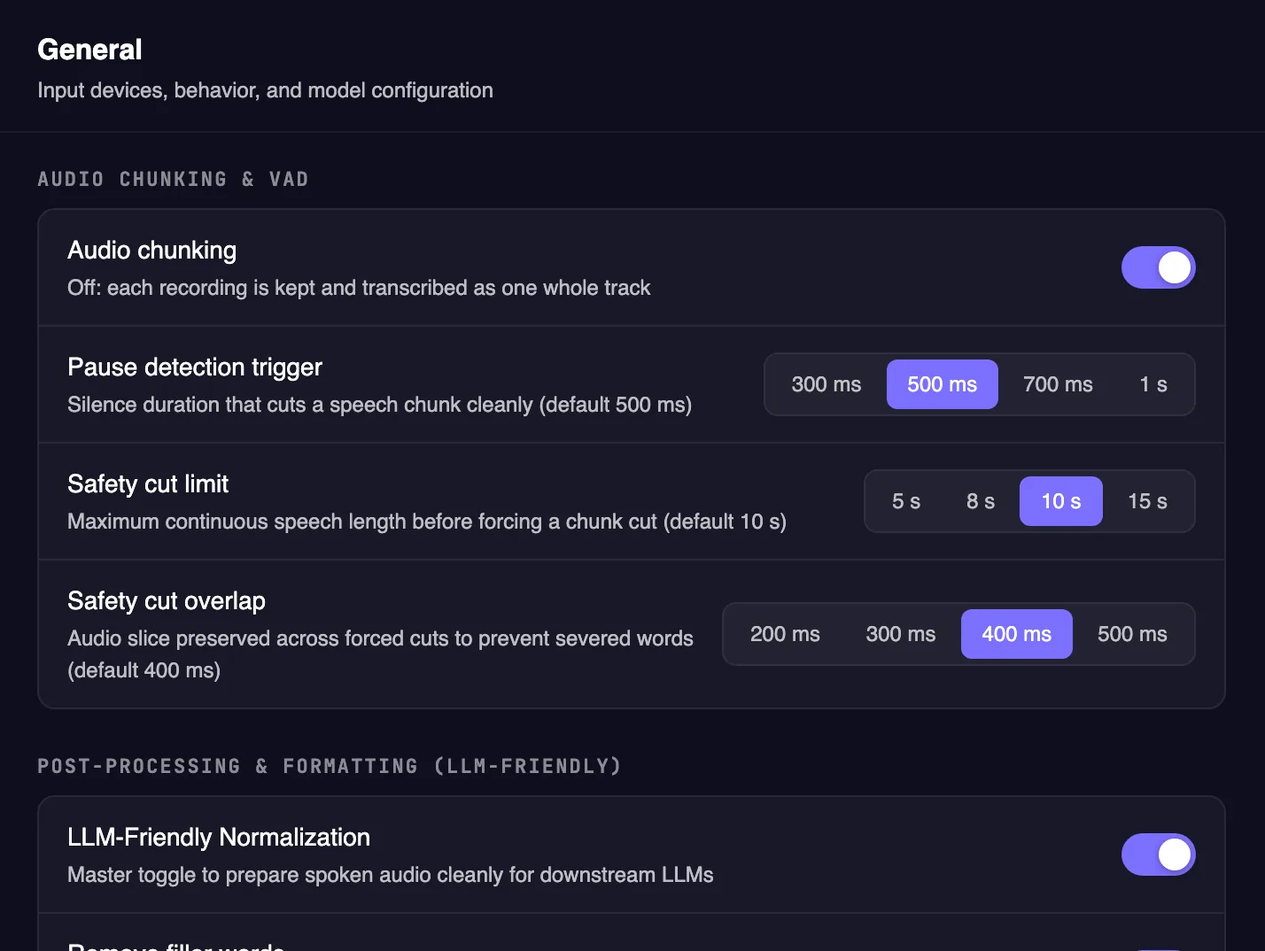
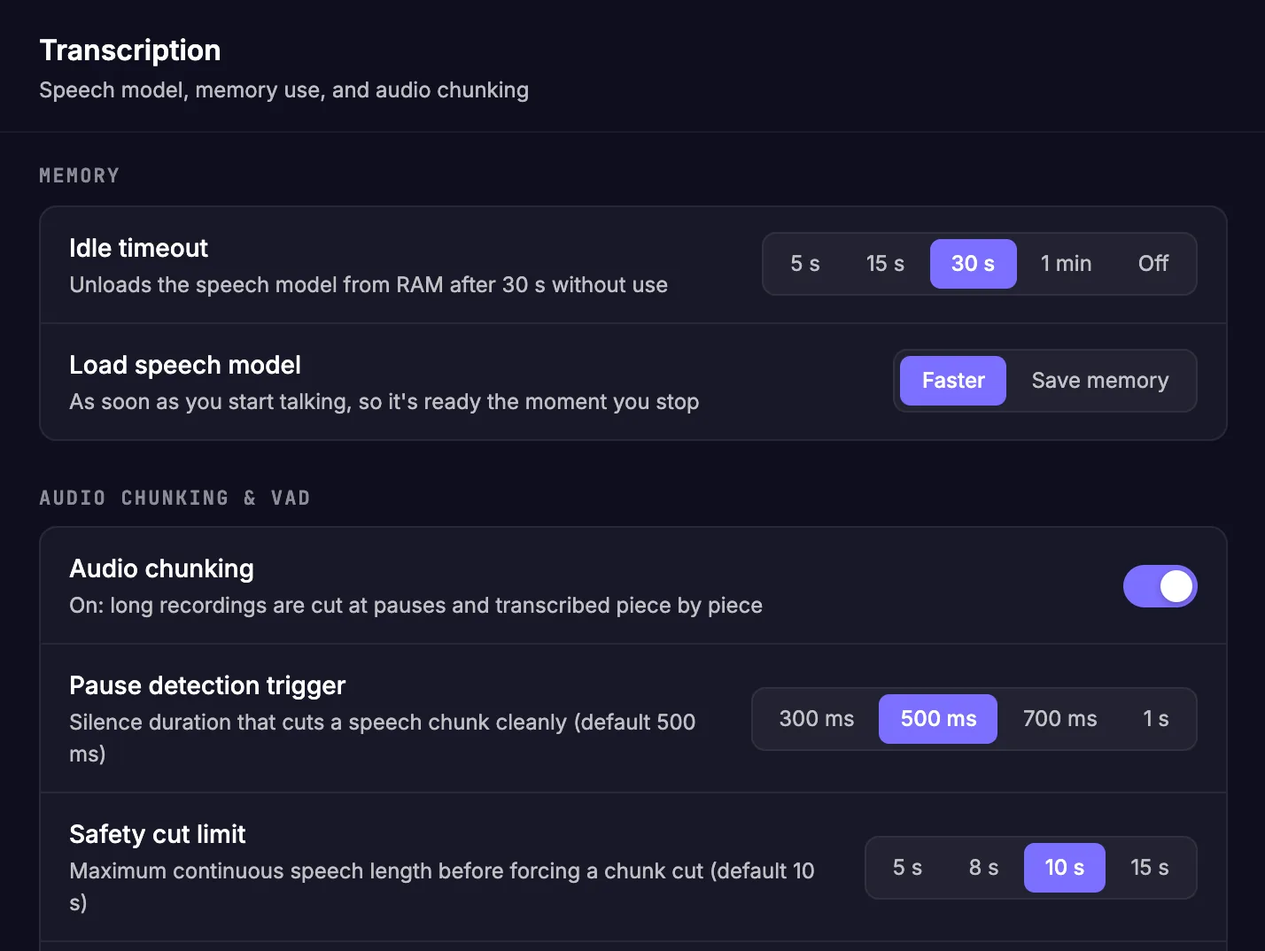
Update the website guide for the new Settings tabs
Re-shoots the General, Transcription, Text and History screenshots, moves
idle timeout to the Transcription step next to model loading, adds Open at
login, and points tab labels and image descriptions at the new tabs.

diff --git a/site/i18n.js b/site/i18n.js
@@ -107,8 +107,9 @@ window.REVFLY_I18N = {
 
     "tab.general": "General",
     "tab.translations": "Translations",
-    "tab.storage": "Storage",
-    "tab.logs": "Logs",
+    "tab.transcription": "Transcription",
+    "tab.text": "Text",
+    "tab.history": "History",
     "tab.labs": "Audio Labs",
 
     "g1.short": "Дозволи",
@@ -125,17 +126,17 @@ window.REVFLY_I18N = {
     "g1.o3t":
       "Показує вашу версію. RevFly сам перевіряє нові випуски й встановлює їх одним натисканням.",
     "g1.alt":
-      "Налаштування RevFly, вкладка General: системні дозволи з наданим Accessibility та оновлення",
+      "Налаштування RevFly, вкладка General: системні дозволи з наданим Accessibility та оновлення з RevFly 1.0.0 Beta",
 
     "g2.short": "Клавіша й мікрофон",
-    "g2.title": "Гаряча клавіша, мікрофон і пам’ять",
+    "g2.title": "Гарячі клавіші й мікрофон",
     "g2.lead": "Розділ Input визначає, як почати запис і чим RevFly вас слухає.",
     "g2.o1": 'Гаряча клавіша <i class="ui">Launch hotkey</i>',
     "g2.o1t":
       "Починає й завершує запис. Після завершення RevFly розпізнає мовлення, за потреби перекладає й вставляє текст. На Mac найкраще підходить <b>правий ⌥</b>: окремо його майже ніколи не натискають, тож він не конфліктує з іншими скороченнями. Натисніть раз, щоб почати, і ще раз, щоб зупинити.",
     "g2.oT": 'Клавіша перекладу <i class="ui">Translate hotkey</i>',
     "g2.oTt":
-      "<b>Translation</b> визначає, коли RevFly перекладає: <b>Off</b> (ніколи), <b>Separate hotkey</b> (типово) або <b>Automatic</b>. З окремою клавішею основна залишає мову, якою ви говорите, а клавіша перекладу перекладає цільовою мовою; пігулка стає бірюзовою й показує мову, як-от <b>EN</b>. Automatic перекладає все, що не цільовою мовою. На Mac використайте іншу клавішу-модифікатор, як-от <b>правий ⌃</b>, а на Windows і Linux — поєднання клавіш. Сказане вами зберігається: відкрийте перекладений запис кнопкою <b>Second try</b> у Logs, щоб побачити й скопіювати його.",
+      "<b>Translation</b> визначає, коли RevFly перекладає: <b>Off</b> (ніколи), <b>Separate hotkey</b> (типово) або <b>Automatic</b>. З окремою клавішею основна залишає мову, якою ви говорите, а клавіша перекладу перекладає цільовою мовою; пігулка стає бірюзовою й показує мову, як-от <b>EN</b>. Automatic перекладає все, що не цільовою мовою. На Mac використайте іншу клавішу-модифікатор, як-от <b>правий ⌃</b>, а на Windows і Linux — поєднання клавіш. Сказане вами зберігається: відкрийте перекладений запис кнопкою <b>Second try</b> в History, щоб побачити й скопіювати його.",
     "g2.o2": 'Мікрофон <i class="ui">Microphone input</i>',
     "g2.o2t":
       "Оберіть пристрій для запису. <b>Test Mic</b> програє звук, щоб ви перевірили, що він чистий і без шумів. Якщо мікрофон зникне посеред запису, RevFly перепідключиться або перейде на системний мікрофон, якщо його від’єднали.",
@@ -145,11 +146,11 @@ window.REVFLY_I18N = {
     "g2.o4": 'Шумозаглушення <i class="ui">Noise reduction</i>',
     "g2.o4t":
       "Прибирає фоновий шум (вентилятор, вулиця, клавіатура) перед розпізнаванням: Off, Light, Balanced або Strong. У гучній кімнаті спробуйте Light.",
-    "g2.o5": 'Тайм-аут простою <i class="ui">Idle timeout</i>',
+    "g2.o5": 'Запуск під час входу <i class="ui">Open at login</i>',
     "g2.o5t":
-      "Скільки модель мовлення залишається в пам’яті після запису (за замовчуванням 30 с). Потім вона вивантажується, тож поки ви не диктуєте, RevFly майже не займає RAM. Під час наступного запису модель завантажиться сама.",
+      "У розділі Behavior, під Input. RevFly запускається, коли ви входите в систему, тож гаряча клавіша завжди готова.",
     "g2.alt":
-      "Розділ Input: гаряча клавіша, мікрофон із кнопкою Test Mic, аудіовихід, шумозаглушення й тайм-аут простою",
+      "Розділ Input: основна клавіша й клавіша перекладу, мікрофон із кнопкою Test Mic, аудіовихід і шумозаглушення",
 
     "g3.short": "Модель мовлення",
     "g3.title": "Модель мовлення й мови",
@@ -173,13 +174,19 @@ window.REVFLY_I18N = {
     "g3.alt":
       "Розділ Model: обрано Parakeet TDT, прискорення Auto, мова Auto-detect, виключені мови, тека моделей",
 
-    "g4.short": "Довгі записи",
-    "g4.title": "Довгі записи: поділ на частини",
+    "g4.short": "Пам’ять і довгі записи",
+    "g4.title": "Пам’ять і довгі записи",
     "g4.lead":
-      "Не кожна модель здатна обробити довгу розмову за один раз. Parakeet, наприклад, обробляє приблизно 4 хвилини 50 секунд аудіо за один прохід. Поділ на частини розрізає запис у природних паузах, тож нічого не губиться.",
+      "Оберіть, як модель мовлення використовує пам’ять і як ділити довгі записи, щоб нічого не загубилося.",
+    "g4.o4": 'Тайм-аут простою <i class="ui">Idle timeout</i>',
+    "g4.o4t":
+      "Скільки модель мовлення залишається в пам’яті після запису (за замовчуванням 30 с). Потім вона вивантажується, тож поки ви не диктуєте, RevFly майже не займає RAM. Під час наступного запису модель завантажиться сама.",
+    "g4.o5": 'Завантаження моделі <i class="ui">Load speech model</i>',
+    "g4.o5t":
+      "<b>Faster</b> завантажує модель, щойно ви почали говорити, тож текст готовий одразу після зупинки. <b>Save memory</b> завантажує її після зупинки й займає менше RAM під час запису.",
     "g4.o1": 'Поділ аудіо <i class="ui">Audio chunking</i>',
     "g4.o1t":
-      "Увімкніть для довгої диктовки. Так ще й швидше: те, що ви вже сказали, розпізнається, поки ви говорите далі, тож текст готовий майже одразу після зупинки.",
+      "Не кожна модель здатна обробити довгу розмову за один раз: Parakeet обробляє приблизно 4 хвилини 50 секунд аудіо за прохід. Поділ розрізає запис у природних паузах, тож увімкніть його для довгої диктовки. Так ще й швидше: те, що ви вже сказали, розпізнається, поки ви говорите далі, тож текст готовий майже одразу після зупинки.",
     "g4.o2": 'Поріг паузи <i class="ui">Pause detection trigger</i>',
     "g4.o2t":
       "Якої довжини має бути пауза, щоб акуратно відрізати частину (за замовчуванням 500 мс).",
@@ -187,7 +194,7 @@ window.REVFLY_I18N = {
     "g4.o3t":
       "Якщо ви говорите без пауз, частина відрізається після цієї кількості секунд. Перекриття повторює короткий шматочок, щоб жодне слово не розрізалося навпіл.",
     "g4.alt":
-      "Розділ Audio Chunking & VAD: поділ увімкнено, поріг паузи, межа відрізання й перекриття",
+      "Вкладка Transcription: пам’ять із тайм-аутом простою й завантаженням моделі, далі Audio Chunking & VAD з увімкненим поділом, порогом паузи й межею відрізання",
 
     "g5.short": "Очищення тексту",
     "g5.title": "Обробка й форматування",
@@ -238,7 +245,7 @@ window.REVFLY_I18N = {
     "g7.o3t": "Ваші записи як звичайні аудіофайли.",
     "g7.tip":
       "<b>Порада:</b> зберігайте аудіо. Збережений запис можна розпізнати ще раз пізніше — про це йдеться в наступних двох розділах.",
-    "g7.alt": "Вкладка Storage: формат збереження, ліміт, автоочищення й використання",
+    "g7.alt": "Вкладка History: формат збереження, ліміт і автоочищення",
 
     "g8.short": "Журнал",
     "g8.title": "Журнал: кожен крок на виду",
@@ -252,7 +259,8 @@ window.REVFLY_I18N = {
     "g8.o3": "Друга спроба",
     "g8.o3t":
       "Прослухайте запис або відкрийте його в Audio Labs, щоб розпізнати ще раз. Для перекладеного запису там видно й те, що ви сказали, — його можна скопіювати.",
-    "g8.alt": "Вкладка Logs: останні записи з часом обробки, визначеною мовою й текстом",
+    "g8.alt":
+      "Вкладка History: статистика й останні записи з часом обробки, визначеною мовою й текстом",
 
     "g9.short": "Audio Labs",
     "g9.title": "Audio Labs: тестування й повторний запуск",

diff --git a/site/index.html b/site/index.html
@@ -533,7 +533,7 @@
             <a href="#g-permissions"><span>01</span><b data-i18n="g1.short">Permissions</b></a>
             <a href="#g-input"><span>02</span><b data-i18n="g2.short">Hotkey &amp; mic</b></a>
             <a href="#g-model"><span>03</span><b data-i18n="g3.short">Speech model</b></a>
-            <a href="#g-chunking"><span>04</span><b data-i18n="g4.short">Long recordings</b></a>
+            <a href="#g-chunking"><span>04</span><b data-i18n="g4.short">Memory &amp; long recordings</b></a>
             <a href="#g-cleanup"><span>05</span><b data-i18n="g5.short">Clean-up</b></a>
             <a href="#g-translation"><span>06</span><b data-i18n="g6.short">Translation</b></a>
             <a href="#g-storage"><span>07</span><b data-i18n="g7.short">Storage</b></a>
@@ -583,7 +583,7 @@
                   height="1074"
                   loading="lazy"
                   data-i18n-attr="alt:g1.alt"
-                  alt="RevFly Settings, General tab: System Permissions with Accessibility granted, and Updates"
+                  alt="RevFly Settings, General tab: System Permissions with Accessibility granted, and Updates showing RevFly 1.0.0 Beta"
                 />
               </figure>
             </article>
@@ -592,7 +592,7 @@
             <article class="guide-step" id="g-input">
               <div class="guide-text">
                 <p class="guide-n">02 · <span data-i18n="tab.general">General</span></p>
-                <h3 data-i18n="g2.title">Hotkey, microphone and memory</h3>
+                <h3 data-i18n="g2.title">Hotkeys and microphone</h3>
                 <p class="guide-lead" data-i18n="g2.lead">
                   The Input section controls how you start a recording and what RevFly listens with.
                 </p>
@@ -616,7 +616,7 @@
                       target, like <b>EN</b>. Automatic translates anything that isn't in the target
                       language. Use another modifier key like <b>Right ⌃</b> on a Mac, or a key
                       combo on Windows and Linux. What you actually said is kept: open a translated
-                      recording with <b>Second try</b> in Logs to see and copy it.
+                      recording with <b>Second try</b> in History to see and copy it.
                     </dd>
                   </div>
                   <div>
@@ -641,11 +641,10 @@
                     </dd>
                   </div>
                   <div>
-                    <dt data-i18n="g2.o5">Idle timeout</dt>
+                    <dt data-i18n="g2.o5">Open at login</dt>
                     <dd data-i18n="g2.o5t">
-                      How long the speech model stays in memory after you finish (30 s by default).
-                      After that it's unloaded, so RevFly uses almost no RAM while you're not
-                      dictating. It loads again automatically the next time you record.
+                      In Behavior, below Input. RevFly starts when you log in, so the hotkey is
+                      always ready.
                     </dd>
                   </div>
                 </dl>
@@ -657,7 +656,7 @@
                   height="1074"
                   loading="lazy"
                   data-i18n-attr="alt:g2.alt"
-                  alt="Input section: launch hotkey, microphone input with Test Mic, audio output, noise reduction and idle timeout"
+                  alt="Input section: launch and translate hotkeys, microphone input with Test Mic, audio output and noise reduction"
                 />
               </figure>
             </article>
@@ -665,7 +664,7 @@
             <!-- 3. Model -->
             <article class="guide-step" id="g-model">
               <div class="guide-text">
-                <p class="guide-n">03 · <span data-i18n="tab.general">General</span></p>
+                <p class="guide-n">03 · <span data-i18n="tab.transcription">Transcription</span></p>
                 <h3 data-i18n="g3.title">Speech model and languages</h3>
                 <p class="guide-lead" data-i18n="g3.lead">
                   Recognition runs entirely on your computer. Pick the engine and tell it which
@@ -726,18 +725,35 @@
             <!-- 4. Chunking -->
             <article class="guide-step" id="g-chunking">
               <div class="guide-text">
-                <p class="guide-n">04 · <span data-i18n="tab.general">General</span></p>
-                <h3 data-i18n="g4.title">Long recordings: chunking</h3>
+                <p class="guide-n">04 · <span data-i18n="tab.transcription">Transcription</span></p>
+                <h3 data-i18n="g4.title">Memory and long recordings</h3>
                 <p class="guide-lead" data-i18n="g4.lead">
-                  Not every model can take a long conversation in one go. Parakeet, for example,
-                  handles about 4 minutes 50 seconds at a time. Chunking splits the recording at
-                  natural pauses so nothing is lost.
+                  Choose how the speech model uses memory, and how long recordings are split so
+                  nothing is lost.
                 </p>
                 <dl class="opts">
                   <div>
+                    <dt data-i18n="g4.o4">Idle timeout</dt>
+                    <dd data-i18n="g4.o4t">
+                      How long the speech model stays in memory after you finish (30 s by default).
+                      After that it's unloaded, so RevFly uses almost no RAM while you're not
+                      dictating. It loads again automatically the next time you record.
+                    </dd>
+                  </div>
+                  <div>
+                    <dt data-i18n="g4.o5">Load speech model</dt>
+                    <dd data-i18n="g4.o5t">
+                      <b>Faster</b> loads the model as soon as you start talking, so the text is
+                      ready the moment you stop. <b>Save memory</b> loads it after you stop and uses
+                      less RAM while you record.
+                    </dd>
+                  </div>
+                  <div>
                     <dt data-i18n="g4.o1">Audio chunking</dt>
                     <dd data-i18n="g4.o1t">
-                      Turn it on for long dictation. It's also faster: the parts you've already said
+                      Not every model can take a long conversation in one go: Parakeet handles about
+                      4 minutes 50 seconds at a time. Chunking splits the recording at natural
+                      pauses, so turn it on for long dictation. It's also faster: the parts you've already said
                       are transcribed while you keep talking, so the text is ready almost as soon as
                       you stop.
                     </dd>
@@ -764,7 +780,7 @@
                   height="1074"
                   loading="lazy"
                   data-i18n-attr="alt:g4.alt"
-                  alt="Audio Chunking and VAD section: chunking on, pause detection trigger, safety cut limit and overlap"
+                  alt="Transcription tab: Memory with idle timeout and model loading, then Audio Chunking and VAD with chunking on, pause detection trigger and safety cut limit"
                 />
               </figure>
             </article>
@@ -772,7 +788,7 @@
             <!-- 5. Clean-up -->
             <article class="guide-step" id="g-cleanup">
               <div class="guide-text">
-                <p class="guide-n">05 · <span data-i18n="tab.general">General</span></p>
+                <p class="guide-n">05 · <span data-i18n="tab.text">Text</span></p>
                 <h3 data-i18n="g5.title">Post-processing &amp; formatting</h3>
                 <p class="guide-lead" data-i18n="g5.lead">
                   Speech is messy. Normalization turns what you said into clean written text that
@@ -885,7 +901,7 @@
             <!-- 7. Storage -->
             <article class="guide-step" id="g-storage">
               <div class="guide-text">
-                <p class="guide-n">07 · <span data-i18n="tab.storage">Storage</span></p>
+                <p class="guide-n">07 · <span data-i18n="tab.history">History</span></p>
                 <h3 data-i18n="g7.title">History and storage</h3>
                 <p class="guide-lead" data-i18n="g7.lead">
                   Choose what RevFly keeps on your disk. Everything stays local.
@@ -922,7 +938,7 @@
                   height="1074"
                   loading="lazy"
                   data-i18n-attr="alt:g7.alt"
-                  alt="Storage tab: save format, storage cap, auto-purge and usage"
+                  alt="History tab: save format, storage cap and auto-purge"
                 />
               </figure>
             </article>
@@ -930,7 +946,7 @@
             <!-- 8. Logs -->
             <article class="guide-step" id="g-logs">
               <div class="guide-text">
-                <p class="guide-n">08 · <span data-i18n="tab.logs">Logs</span></p>
+                <p class="guide-n">08 · <span data-i18n="tab.history">History</span></p>
                 <h3 data-i18n="g8.title">Logs: see every step</h3>
                 <p class="guide-lead" data-i18n="g8.lead">
                   Each recording gets a timeline of what happened to it and how long each step took.
@@ -965,7 +981,7 @@
                   height="1074"
                   loading="lazy"
                   data-i18n-attr="alt:g8.alt"
-                  alt="Logs tab: recent recordings with timings, detected language and text"
+                  alt="History tab: session stats and recent recordings with timings, detected language and text"
                 />
               </figure>
             </article>
